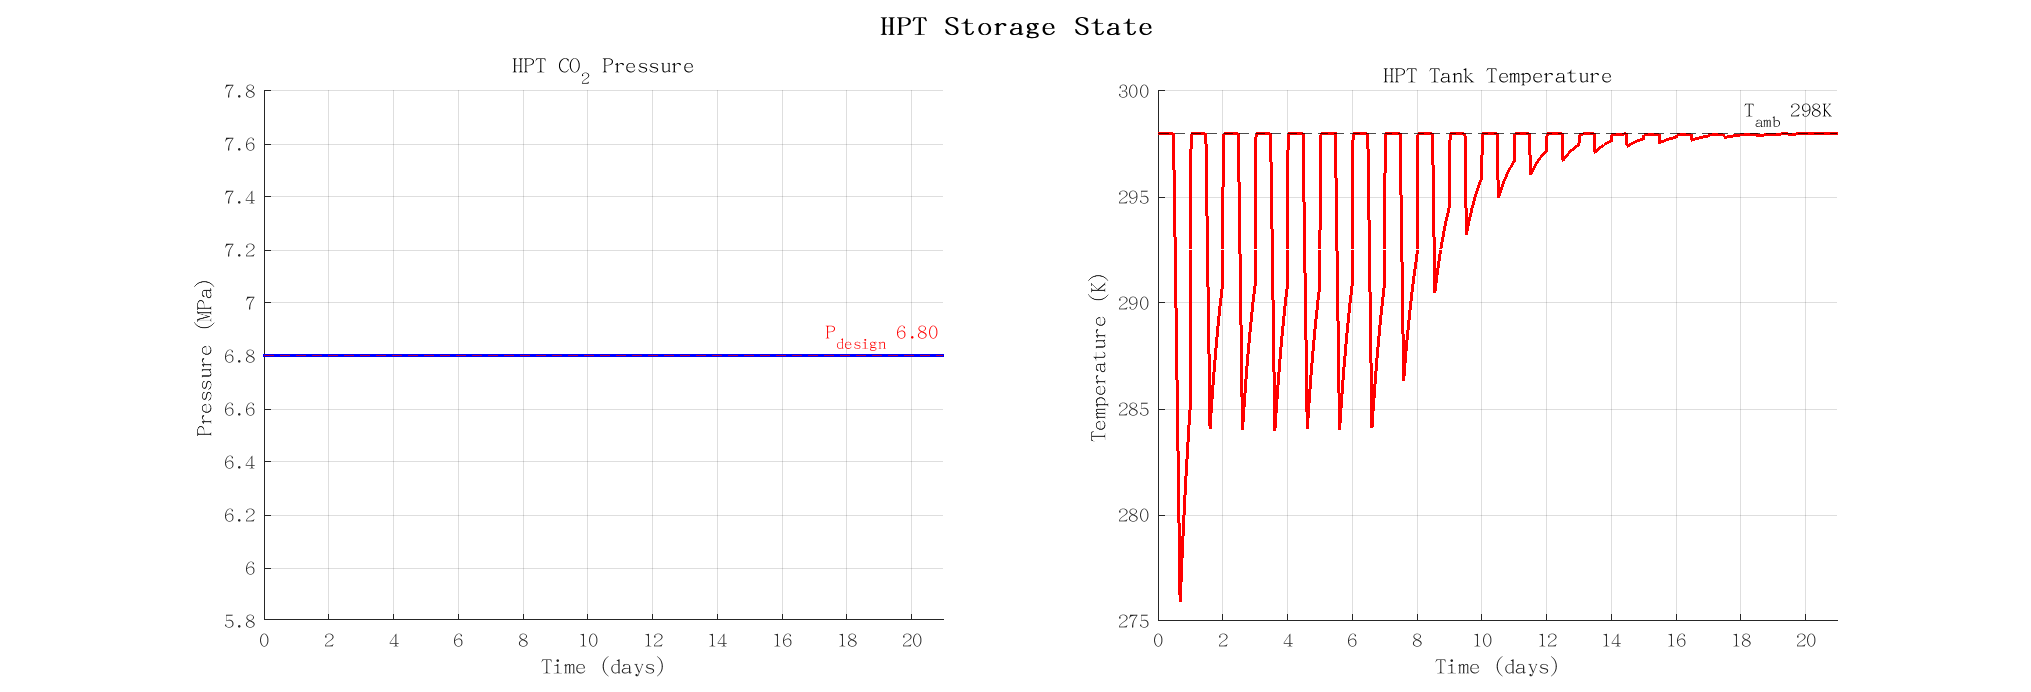
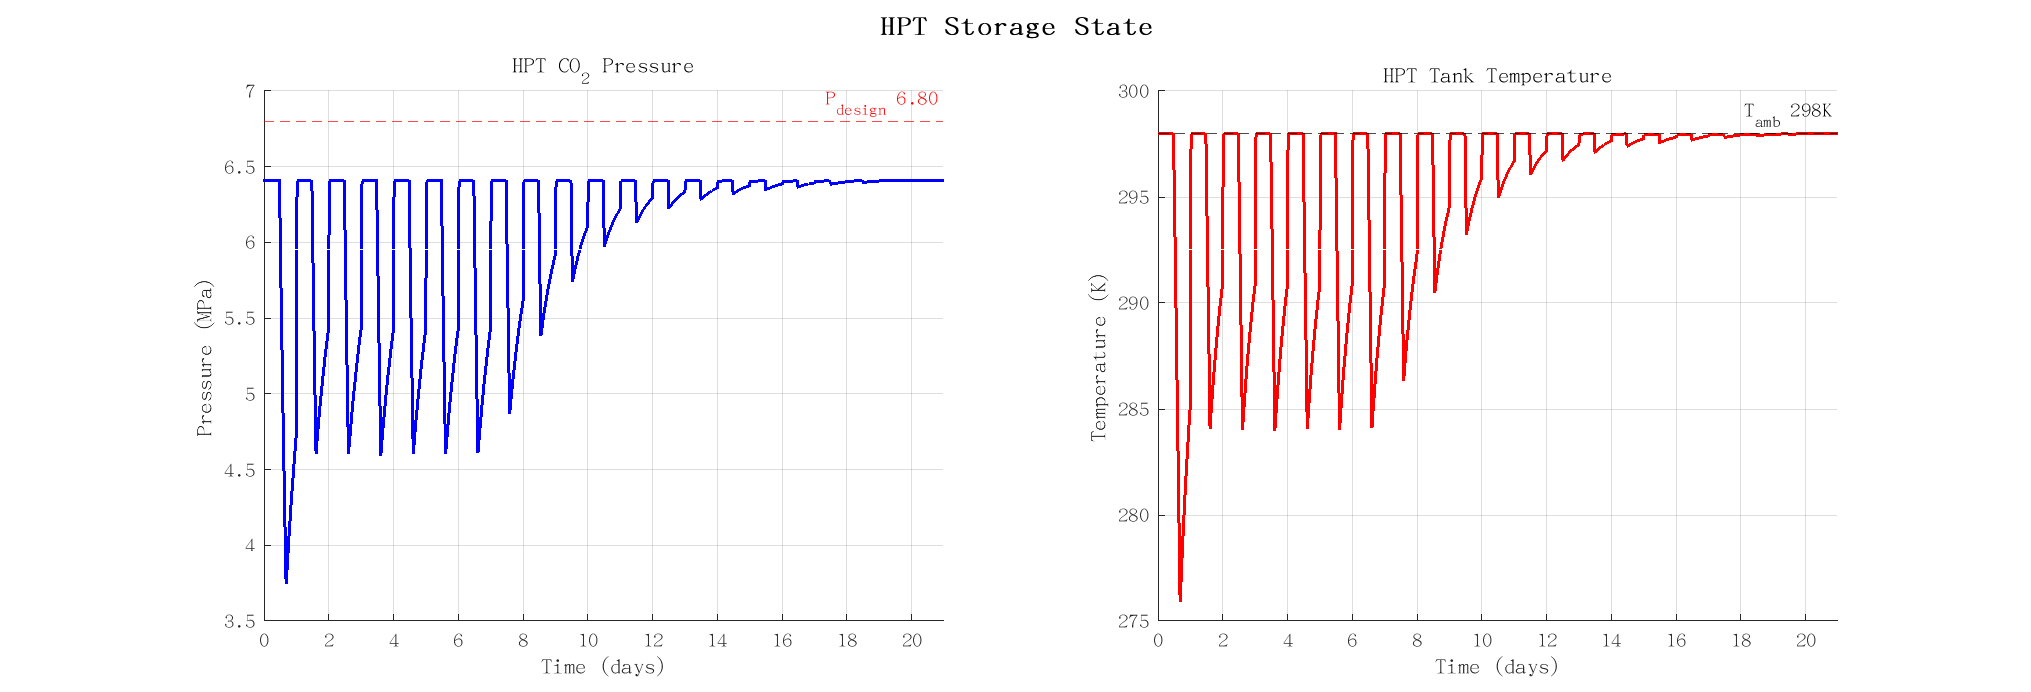
fix: dynamic P_HPT post-processing with T-dependent saturation pressure
Replace fixed 6.80 MPa with full two-phase model in run script.
P_HPT now tracks T_tank: 6.42 MPa at 298K -> 3.75 MPa at 276K.
Matches ode_dynamics pressure calculation.

diff --git a/CCES_CHP_Simulink/src/ode/run_ode_simulation.m b/CCES_CHP_Simulink/src/ode/run_ode_simulation.m
@@ -39,8 +39,26 @@ m_HPT = x(:,1);  V_hot = x(:,2);  T_tank = x(:,3);
 Th=573; Tc=298;
 Q_HTV = V_hot * 850 * 2.5 * (Th - Tc) / 1000;  % [MJ], kJ→MJ
 Q_cap = 150 * 3600;
-P_HPT = 6.80 * ones(size(m_HPT));
-P_HPT(m_HPT < m_full * 0.05) = m_HPT(m_HPT < m_full * 0.05) .* 188.9 .* T_tank(m_HPT < m_full * 0.05) / V_HPT / 1e6;
+% P_HPT: 两相模型 (与 ode_dynamics 一致), 使用 T_tank 动态计算
+P_sat_298 = getFluidProperty(cfg.REFPROP_LIB,'P','T',298,'Q',0,'CO2',1,1,'MASS BASE SI');
+T_sat_v = 260:0.5:304;  P_sat_v = zeros(size(T_sat_v));
+for i=1:length(T_sat_v)
+    P_sat_v(i)=getFluidProperty(cfg.REFPROP_LIB,'P','T',T_sat_v(i),'Q',0,'CO2',1,1,'MASS BASE SI');
+end
+P_HPT = zeros(size(m_HPT));
+for i = 1:length(m_HPT)
+    Tc = max(260, min(304, T_tank(i)));
+    Ps = interp1(T_sat_v, P_sat_v, Tc, 'linear');
+    rl = getFluidProperty(cfg.REFPROP_LIB,'D','T',Tc,'Q',0,'CO2',1,1,'MASS BASE SI');
+    rv = getFluidProperty(cfg.REFPROP_LIB,'D','T',Tc,'Q',1,'CO2',1,1,'MASS BASE SI');
+    if m_HPT(i) >= rl*V_HPT
+        P_HPT(i) = Ps/1e6 + (m_HPT(i)-rl*V_HPT)/(rl*V_HPT)*1000;
+    elseif m_HPT(i) > rv*V_HPT*0.05
+        P_HPT(i) = Ps/1e6;
+    else
+        P_HPT(i) = m_HPT(i)*188.9*T_tank(i)/V_HPT/1e6;
+    end
+end
 
 n = length(t);
 W_comp = zeros(n,1);  W_turb = zeros(n,1);
